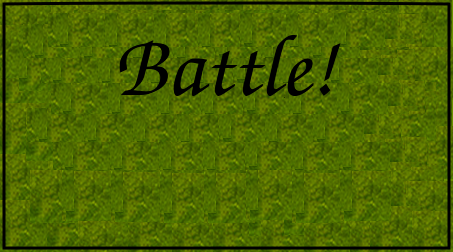
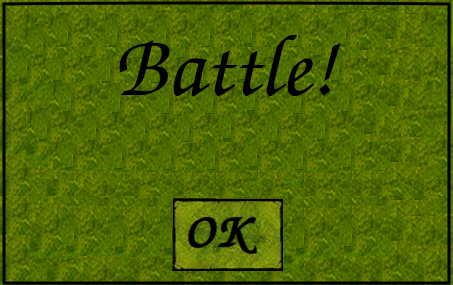
add ok button to battle info

diff --git a/Graphics/Init/DisplayParts.hpp b/Graphics/Init/DisplayParts.hpp
@@ -25,6 +25,7 @@ public:
     const DPElem restartBTN = DPElem(810, 510, 101, 45);
     const DPElem resetBTN = DPElem(810, 563, 101, 46);
     const DPElem info = DPElem(255, 190, 453, 252);
+    const DPElem battle = DPElem(255, 180, 453, 285);
 
     DisplayPart getPart(DPBase& index) {
         if (board.isInside(index)) return BOARD;

diff --git a/Graphics/GrapicalOutput.cpp b/Graphics/GrapicalOutput.cpp
@@ -206,7 +206,7 @@ void GrapicalOutput::printPause() {
 
 void GrapicalOutput::printBattle() {
     printInfo();
-    SDL_Rect msg = dParts.info.getRect();
+    SDL_Rect msg = dParts.battle.getRect();
     SDL_RenderCopy(gRenderer.get(), pictures["Battle"].get(), nullptr, &msg);
 
     auto objects = game.lock();

diff --git a/Graphics/Init/DPField.hpp b/Graphics/Init/DPField.hpp
@@ -28,7 +28,7 @@ public:
     }
 
     SDL_Rect getRectForBattleInfoAttacker() const {
-        return {420, 320, cardW, cardH};
+        return {415, 300, cardW, cardH};
     }
 
     void setRectForBattleInfoDefender(SDL_Rect &sel) const {

diff --git a/Logic/StepValidator.cpp b/Logic/StepValidator.cpp
@@ -138,5 +138,3 @@ bool StepValidator::checkStep(int index) {
     game->setError(index);
     return false;
 }
-
-
